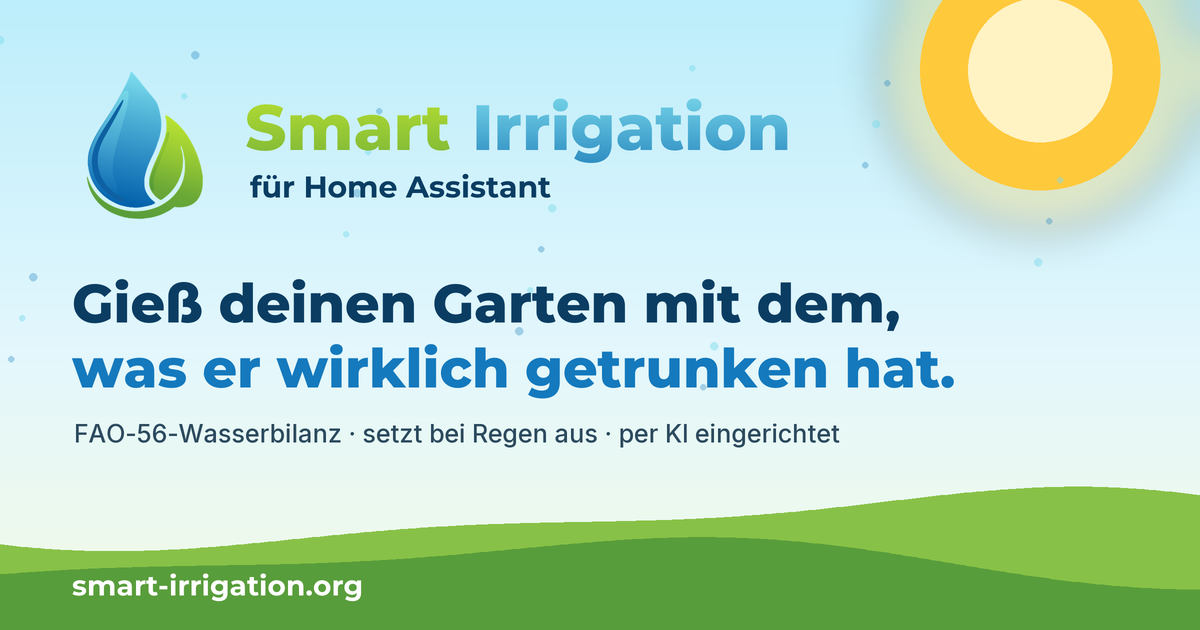
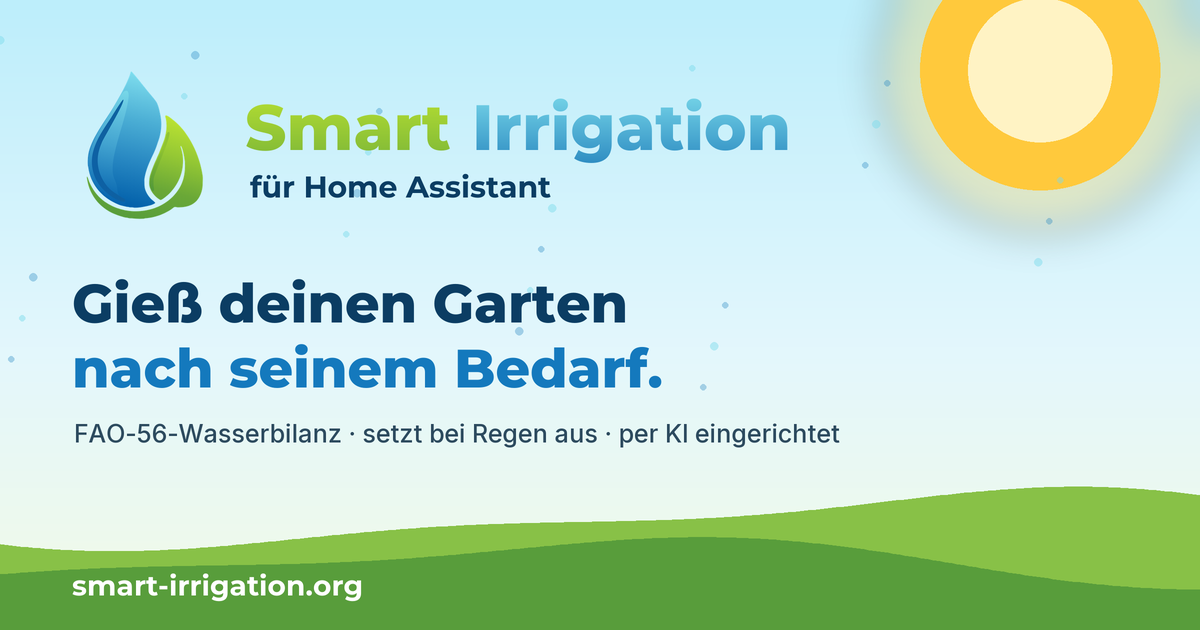
Clearer headline in every language: water your garden according to its needs

Changed region(s): [[0.0617, 0.5429, 0.8017, 0.6333], [0.5242, 0.4524, 0.7708, 0.5127]]

diff --git a/de/index.html b/de/index.html
@@ -21,7 +21,7 @@
 <meta property="og:image" content="https://smart-irrigation.org/og-image-de.png">
 <meta property="og:image:width" content="1200">
 <meta property="og:image:height" content="630">
-<meta property="og:image:alt" content="Smart Irrigation für Home Assistant: gieß deinen Garten mit dem, was er wirklich getrunken hat">
+<meta property="og:image:alt" content="Smart Irrigation für Home Assistant: gieß deinen Garten nach seinem Bedarf">
 <meta property="og:locale" content="de_DE">
 <meta name="twitter:card" content="summary_large_image">
 <meta name="twitter:title" content="Smart Irrigation für Home Assistant: Gartenbewässerung nach dem Wetter">
@@ -266,7 +266,7 @@ footer a { color: var(--muted); }
     <div class="wrap">
       <div>
         <p class="eyebrow">Smart Irrigation für Home Assistant</p>
-        <h1 style="margin-top:14px">Gieß deinen <span class="leafw">Garten</span> mit dem, was er <em>wirklich getrunken</em> hat.</h1>
+        <h1 style="margin-top:14px">Gieß deinen <span class="leafw">Garten</span> <em>nach seinem Bedarf</em>.</h1>
         <p class="lead">Smart Irrigation verfolgt das Wasser im Boden jeder Zone, Tag für Tag: was Sonne und Wind genommen haben, was der Regen zurückgegeben hat. Es gießt nur die fehlenden Millimeter, und gar nichts, wenn der Himmel die Arbeit schon erledigt hat.</p>
         <div class="ctas">
           <a class="btn primary" href="https://my.home-assistant.io/redirect/_change/?redirect=marketplace_repository%2F%3Fowner%3Daltmenorg%26repository%3DHAsmartirrigation%26category%3Dintegration">Zu Home Assistant hinzufügen</a>

diff --git a/fr/index.html b/fr/index.html
@@ -21,7 +21,7 @@
 <meta property="og:image" content="https://smart-irrigation.org/og-image-fr.png">
 <meta property="og:image:width" content="1200">
 <meta property="og:image:height" content="630">
-<meta property="og:image:alt" content="Smart Irrigation pour Home Assistant : arrosez votre jardin de ce qu'il a vraiment bu">
+<meta property="og:image:alt" content="Smart Irrigation pour Home Assistant : arrosez votre jardin en fonction de ses besoins">
 <meta property="og:locale" content="fr_FR">
 <meta name="twitter:card" content="summary_large_image">
 <meta name="twitter:title" content="Smart Irrigation pour Home Assistant : l'arrosage selon la météo">
@@ -266,7 +266,7 @@ footer a { color: var(--muted); }
     <div class="wrap">
       <div>
         <p class="eyebrow">Smart Irrigation pour Home Assistant</p>
-        <h1 style="margin-top:14px">Arrosez votre <span class="leafw">jardin</span> de ce qu'il a <em>vraiment bu</em>.</h1>
+        <h1 style="margin-top:14px">Arrosez votre <span class="leafw">jardin</span> <em>en fonction de ses besoins</em>.</h1>
         <p class="lead">Smart Irrigation suit l'eau dans le sol de chaque zone, jour après jour : ce que le soleil et le vent ont pris, ce que la pluie a rendu. Il n'arrose que les millimètres qui manquent, et rien quand le ciel s'en est chargé.</p>
         <div class="ctas">
           <a class="btn primary" href="https://my.home-assistant.io/redirect/_change/?redirect=marketplace_repository%2F%3Fowner%3Daltmenorg%26repository%3DHAsmartirrigation%26category%3Dintegration">Ajouter à Home Assistant</a>

diff --git a/es/index.html b/es/index.html
@@ -21,7 +21,7 @@
 <meta property="og:image" content="https://smart-irrigation.org/og-image-es.png">
 <meta property="og:image:width" content="1200">
 <meta property="og:image:height" content="630">
-<meta property="og:image:alt" content="Smart Irrigation para Home Assistant: riega tu jardín según lo que realmente bebió">
+<meta property="og:image:alt" content="Smart Irrigation para Home Assistant: riega tu jardín según sus necesidades">
 <meta property="og:locale" content="es_ES">
 <meta name="twitter:card" content="summary_large_image">
 <meta name="twitter:title" content="Smart Irrigation para Home Assistant: riego del jardín según el tiempo">
@@ -266,7 +266,7 @@ footer a { color: var(--muted); }
     <div class="wrap">
       <div>
         <p class="eyebrow">Smart Irrigation para Home Assistant</p>
-        <h1 style="margin-top:14px">Riega tu <span class="leafw">jardín</span> según lo que <em>realmente bebió</em>.</h1>
+        <h1 style="margin-top:14px">Riega tu <span class="leafw">jardín</span> <em>según sus necesidades</em>.</h1>
         <p class="lead">Smart Irrigation sigue el agua en el suelo de cada zona, día a día: lo que se llevaron el sol y el viento, lo que devolvió la lluvia. Riega solo los milímetros que faltan, y nada cuando el cielo ya hizo el trabajo.</p>
         <div class="ctas">
           <a class="btn primary" href="https://my.home-assistant.io/redirect/_change/?redirect=marketplace_repository%2F%3Fowner%3Daltmenorg%26repository%3DHAsmartirrigation%26category%3Dintegration">Añadir a Home Assistant</a>

diff --git a/index.html b/index.html
@@ -21,7 +21,7 @@
 <meta property="og:image" content="https://smart-irrigation.org/og-image.png">
 <meta property="og:image:width" content="1200">
 <meta property="og:image:height" content="630">
-<meta property="og:image:alt" content="Smart Irrigation for Home Assistant: water your garden for what it actually drank">
+<meta property="og:image:alt" content="Smart Irrigation for Home Assistant: water your garden according to its needs">
 <meta property="og:locale" content="en_US">
 <meta name="twitter:card" content="summary_large_image">
 <meta name="twitter:title" content="Smart Irrigation for Home Assistant: weather-based garden watering">
@@ -266,7 +266,7 @@ footer a { color: var(--muted); }
     <div class="wrap">
       <div>
         <p class="eyebrow">Smart Irrigation for Home Assistant</p>
-        <h1 style="margin-top:14px">Water your <span class="leafw">garden</span> for what it <em>actually drank</em>.</h1>
+        <h1 style="margin-top:14px">Water your <span class="leafw">garden</span> <em>according to its needs</em>.</h1>
         <p class="lead">Smart Irrigation follows the water in each zone's soil, day by day: what the sun and wind took, what the rain gave back. It waters only the millimetres that are missing, and nothing when the sky has done the job.</p>
         <div class="ctas">
           <a class="btn primary" href="https://my.home-assistant.io/redirect/_change/?redirect=marketplace_repository%2F%3Fowner%3Daltmenorg%26repository%3DHAsmartirrigation%26category%3Dintegration">Add to Home Assistant</a>
